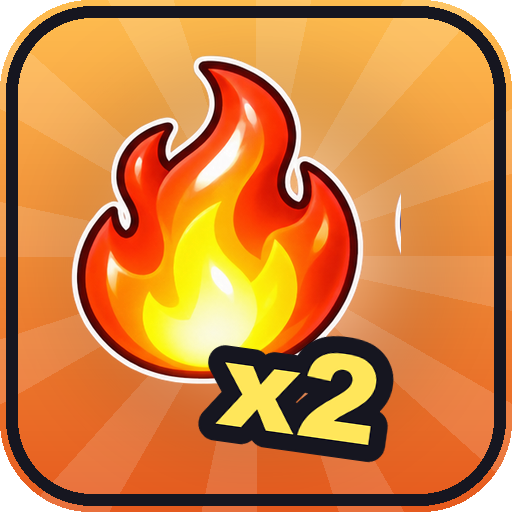
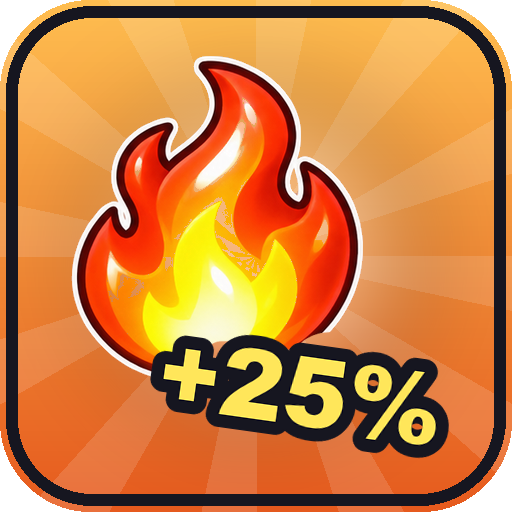
Passe Turbo Jetpack : +25 % de carburant au lieu de x2 (au niveau 1 on reste sous le premier vide), texte, icône et description sur Roblox mis à jour

diff --git a/tools/store_icons.py b/tools/store_icons.py
@@ -100,7 +100,7 @@ MONEY = (140, 255, 120)
 
 # Passes
 make("pass_JetXP2x", CYAN, "WindTunnel", "x2")
-make("pass_TurboJetpack", ORANGE, "Fire", "x2", text_color=YELLOW)
+make("pass_TurboJetpack", ORANGE, "Fire", "+25%", text_size=96, text_color=YELLOW)
 make("pass_FastHatch", PURPLE, "Hatch", "x2", icon2="Hourglass")
 make("pass_Money2x", GREEN, "Sparkles", "$x2", text_color=MONEY, text_size=110)
 make("pass_BaseSlots", BLUE, "Home", "+5")

diff --git a/docs/Mecaniques.md b/docs/Mecaniques.md
@@ -235,7 +235,7 @@ C'est l'équivalent des tapis de course des simulateurs : l'oxygène se farme, i
 
 ### Boutique Robux (7 nov.)
 
-- ✅ **Passes** (définitifs) : x2 Jetpack XP (149 R$), Turbo Jetpack (réservoir ×2, 99 R$), Fast Hatch (éclosion ×2 plus rapide, 199 R$), x2 Money (revenus des créatures ×2, 299 R$), +5 Base Slots (249 R$), VIP (+10 % d'argent et tag [VIP] doré dans le chat, 399 R$).
+- ✅ **Passes** (définitifs) : x2 Jetpack XP (149 R$), Turbo Jetpack (+25 % de carburant, 99 R$ ; pas plus, pour ne pas sauter un palier), Fast Hatch (éclosion ×2 plus rapide, 199 R$), x2 Money (revenus des créatures ×2, 299 R$), +5 Base Slots (249 R$), VIP (+10 % d'argent et tag [VIP] doré dans le chat, 399 R$).
 - ✅ **Potions** de 15 min, cumulables dans le temps et sauvegardées : x2 Luck (39 R$), x2 Money (39 R$), x2 Jetpack XP (25 R$). Meteor Shower (99 R$) lance tout de suite une pluie de météores pour tout le serveur. Les potions actives s'affichent sous l'horloge, avec leur minuteur.
 - ✅ **Starter Pack** (99 R$) : gros paquet d'argent + x2 Luck + x2 Money. **Paquets d'argent** : le montant dépend de l'anneau le plus loin débloqué.
 - ✅ Les effets sont calculés par le serveur (`BoostService`). Les identifiants Roblox vont dans `Config.Shop`, `Config.Drills` et `Config.Hatch.Skip`. Tant qu'un identifiant vaut 0, le bouton affiche « Coming soon! ».
